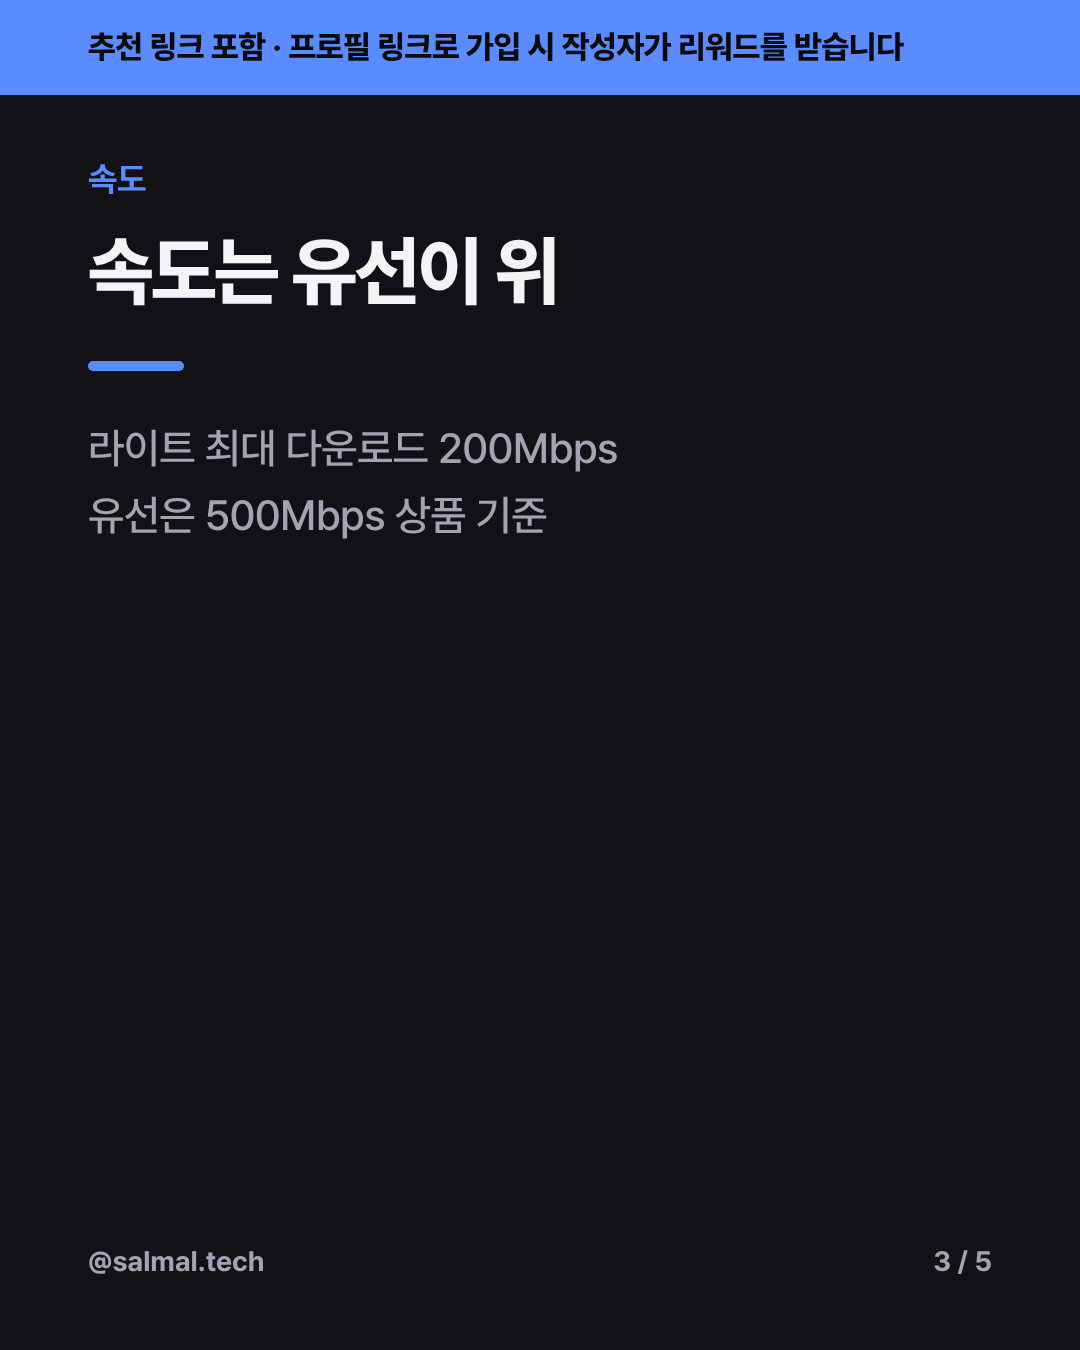
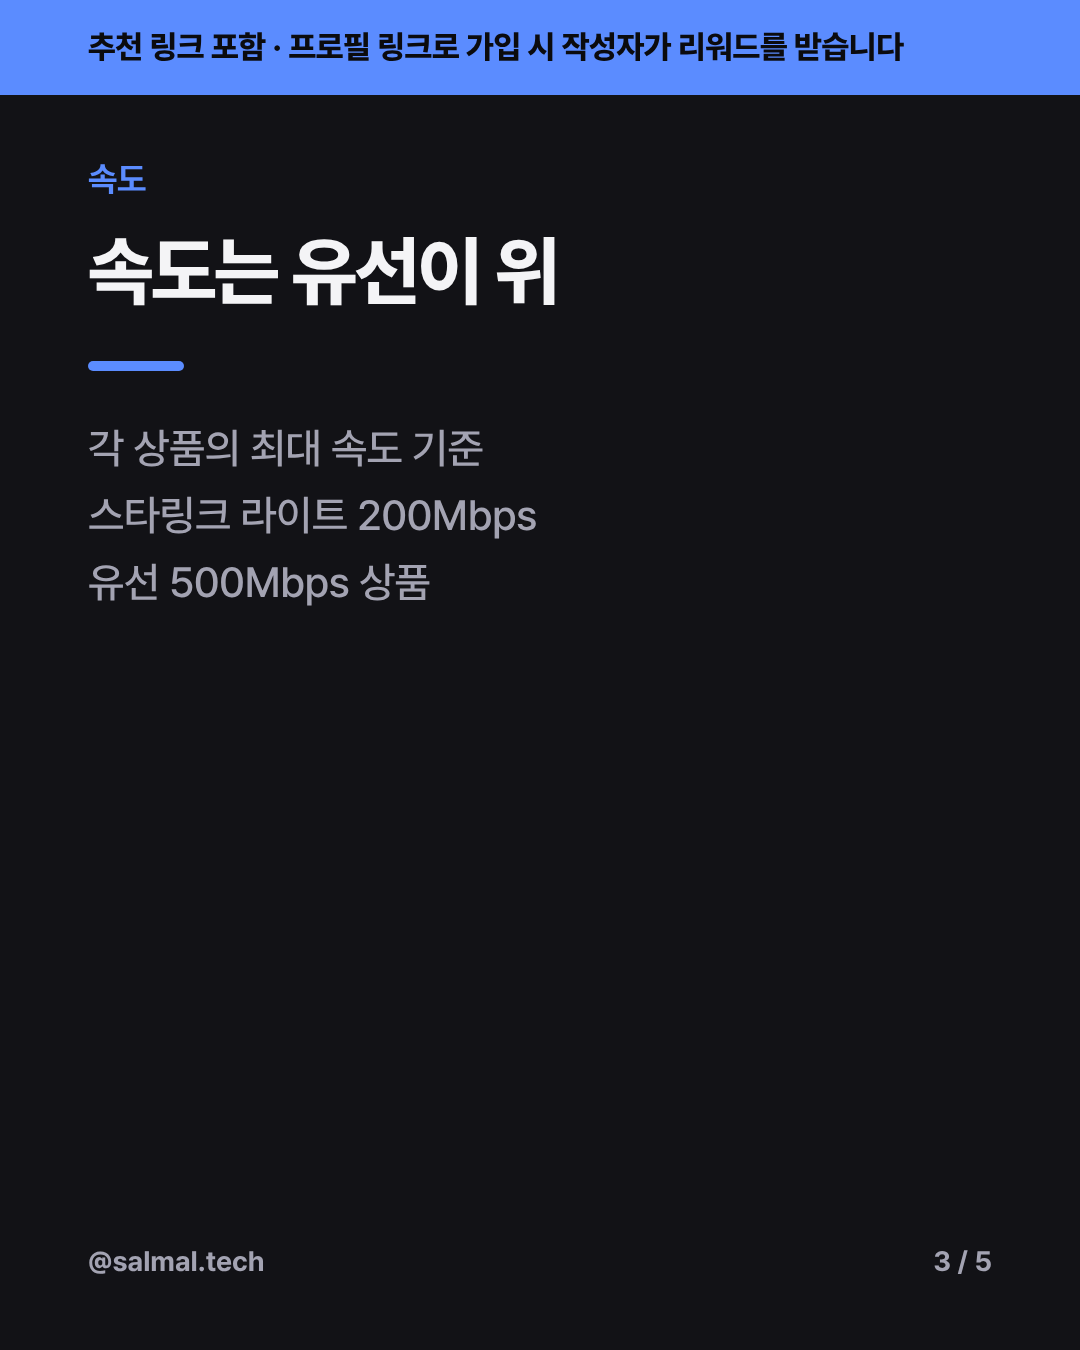
제작 2026-11-18: 03·04 검수 보류 사항 반영, 게시 기한(publish_by) 도입
03은 '값은 거의 같다'를 할인 기간 월 요금으로 좁히고 키트 비용과 약정·할인 차이를 넣었다.
결론을 '검토해 볼 만하다'로 낮추고 주소별 라이트 확인을 추가했다. 04는 출처가 약한
서울 대기자 문장을 빼고 '3분'과 #캠핑을 지웠다. 두 소재 모두 짧은 채널에 마감일을 넣었다.
시한성 소재에 publish_by를 두고, 그 날짜를 넘는 예약은 채널 매니저와 상태 검사가 막는다.

Claude-Session: https://claude.ai/code/session_015tx819vuc4pyFPfp6DvgFx

Changed region(s): [[0.0611, 0.3111, 0.5806, 0.4667]]

diff --git a/tools/check_state.js b/tools/check_state.js
@@ -95,6 +95,16 @@ if (queue) {
           }
         }
       }
+      if (item.publish_by && !/^\d{4}-\d{2}-\d{2}$/.test(item.publish_by)) {
+        fail(`${where}: publish_by 형식은 YYYY-MM-DD`);
+      }
+      if (item.publish_by && Array.isArray(item.posts)) {
+        for (const post of item.posts) {
+          if (post.scheduled_at && post.scheduled_at.slice(0, 10) > item.publish_by) {
+            fail(`${where}: ${post.channel} 예약(${post.scheduled_at})이 publish_by(${item.publish_by})를 넘김`);
+          }
+        }
+      }
       if (['scheduled', 'published', 'measured'].includes(item.status)) {
         if (!Array.isArray(item.posts) || item.posts.length === 0) {
           fail(`${where}: ${item.status} 상태인데 posts가 비어 있음`);

diff --git a/content/20261118-03/review.md b/content/20261118-03/review.md
@@ -1,0 +1,66 @@
+# 검수: 20261118-03 반값 스타링크, 집 인터넷 대신 써도 될까
+
+- 검수일: 2026-11-18
+- 대상 파일: brief.md, instagram.md, threads.md, x.md, cards.json, cards/01~05.png
+- 승인 방식: `auto`. passed는 사람 확인 없이 바로 예약되므로 기준을 엄격하게 적용했다.
+- 판정: **held**
+
+## 1. 광고 표시: 문제 없음
+
+- 인스타그램 캡션, 스레드, X의 첫 줄에 "프로필 링크는 스타링크 추천 링크, 가입 시 작성자 리워드"가 있다.
+- 카드에는 상단 `notice` 띠가 있다(02, 05 확인).
+
+## 2. 사실: 보류(필수 수정 3건)
+
+맞는 것:
+- 수치는 브리프 출처와 같다. 라이트 34,000원/68,000원/최대 200Mbps는 아시아타임즈와 make2t, 유선 33,000원은 아시아타임즈, 34,100원은 텔레네이션이다.
+- "3만 3천~3만 4천 원대"와 "33,000~34,100원"이라는 범위 표기도 맞다.
+- 공식가 약 6만 원 칼럼은 쓰지 않았다.
+
+**속도 비교는 공정한가: 대체로 공정하다.**
+- 라이트의 "최대 200Mbps"와 유선 "500Mbps 상품"은 둘 다 상품의 명목 최대 속도라 같은 성격의 숫자다.
+- 결론("속도는 유선이 위")도 스타링크에 유리하게 기울지 않았다.
+- 권고: 카드 3에 "둘 다 상품 기준 최대 속도"라고 적으면 더 정확하다.
+
+걸린 것:
+
+1. **"값은 거의 같아요"(카드 2 제목, 캡션, 스레드, X)는 성격이 다른 두 가격을 같은 값처럼 보이게 한다.**
+   - 유선 33,000원은 3년 약정으로 3년 내내 유지되는 가격이다. 스타링크 34,000원은 신규 가입 한정 할인가이고, 몇 달 유지되는지 확인되지 않았다. 정상가는 68,000원이다.
+   - 스타링크는 키트를 사야 한다. 할인가로도 스탠다드 275,000원, 미니 160,000원(make2t, 01 브리프)인데 비교에서 빠졌다.
+   - 그래서 "거의 같다"는 할인이 유지되는 동안의 월 요금에만 해당한다. 장기 비용으로는 사실이 아니다. 독자가 "반값이면 유선과 같은 값"이라고 이해하고 가입할 수 있다. 정확히는 스타링크에 유리하게 기운 표현이다.
+   - 고칠 방법: 제목을 "할인 기간 월 요금만 보면 비슷"처럼 범위를 한정한다. 카드 2(또는 4)와 캡션에 다음 두 가지를 넣는다.
+     - 스타링크는 키트(할인가 스탠다드 27만 5천 원, 미니 16만 원)를 따로 산다.
+     - 유선 가격은 3년 고정이고, 스타링크 할인은 기간이 확인되지 않았으며 끝나면 68,000원이다.
+   - 스레드와 X의 "값은 거의 같고/값은 비슷"도 "할인 기간 월 요금은 비슷"으로 한정한다.
+2. **할인 마감과 대상이 없다.** 네 채널 어디에도 "보도 기준 11월 28일까지, 신규 가입"이 없는데 "반값 스타링크"를 현재형으로 내세운다. 자동 게시라서 마감 뒤에 나가면 틀린 글이 된다.
+   - 고칠 방법: 카드 2 또는 4, 캡션, 스레드, X에 "할인은 보도 기준 11/28까지(신규 가입)"를 넣는다.
+   - 게시 조건: 11월 27일까지 게시되지 않으면 내보내지 않고 다시 검수한다. 채널 매니저는 예약 시각이 11/28 이후면 예약하지 않는다.
+3. **결론이 단정적이고 라이트 제공 조건이 빠졌다.**
+   - 카드 5 "유선이 안 들어오거나 느린 곳이 답", 캡션 "스타링크가 답이 됩니다"가 걸린다. 34,000원 계산은 주거용 라이트가 그 주소에 제공될 때만 맞다(04 브리프, make2t). 과장 없는 정보형이라는 톤과도 어긋난다.
+   - 고칠 방법: "유력한 선택지"처럼 낮춘다. "라이트가 우리 주소에 나오는지 먼저 확인"을 한 줄 넣는다. 카드 5의 "곳이 답." 문장은 어색하기도 하다.
+
+## 3. 저작권과 초상권: 문제 없음
+
+## 4. 조작: 문제 없음
+
+써 본 사람의 후기처럼 쓴 부분이나 사칭이 없다.
+
+## 5. 채널 규정: 문제 없음(참고 1건)
+
+- 인스타그램 해시태그 5개. 스레드와 X는 280자·500자 안쪽이다.
+- 카드 하단의 `@salmal.tech`는 인스타그램 핸들이다. 카드는 인스타그램에만 쓰므로 문제없다. 같은 카드를 X에 쓰게 되면 X 핸들과 맞지 않는다.
+- 스레드와 X 초안은 지금 연결되지 않은 채널이다. auto 모드에서 passed가 되면 연결된 뒤에 그대로 나갈 수 있으므로 위 수정이 두 초안에도 반영돼야 한다.
+
+## 6. AI 표시: 해당 없음
+
+## 7. 위험 주제: 2번 지적 외에는 문제 없음
+
+"확인되지 않은 할인 금액"에 해당하는 수치는 없다. 다만 할인 기간이 확인되지 않은 가격을 장기 가격처럼 비교한 것(2번의 1)은 고쳐야 한다.
+
+## 8. 톤: 보류
+
+"도시면 유선"이라고 아쉬운 점을 말한 것은 좋다. 다만 "값은 거의 같아요"와 "답"은 과장 없는 정리형이라는 톤과 어긋난다(2번의 1과 3).
+
+## 고친 뒤
+
+필수 수정 3건(가격 비교 범위 한정과 키트 비용, 마감·신규 가입 표기와 게시 기한, 결론 표현과 라이트 제공 조건)이 반영되면 다시 검수한다.

diff --git a/content/20261118-04/review.md b/content/20261118-04/review.md
@@ -1,0 +1,59 @@
+# 검수: 20261118-04 결제 전 우리 집 주소로 확인할 3가지
+
+- 검수일: 2026-11-18
+- 대상 파일: brief.md, instagram.md, threads.md, x.md, cards.json, cards/01~05.png
+- 승인 방식: `auto`. passed는 사람 확인 없이 바로 예약되므로 기준을 엄격하게 적용했다.
+- 판정: **held**
+
+## 1. 광고 표시: 문제 없음
+
+- 인스타그램 캡션, 스레드, X의 첫 줄에 "프로필 링크는 스타링크 추천 링크, 가입 시 작성자 리워드"가 있다.
+- 카드에는 상단 `notice` 띠가 있다(02 확인).
+
+## 2. 사실: 보류(필수 수정 1건, 게시 조건 1건)
+
+맞는 것:
+- 주소를 넣으면 가능 여부가 나온다는 것과 라이트가 주소에 따라 안 나올 수 있다는 것은 make2t가 출처다.
+- "안 뜨면 34,000원 계산이 맞지 않는다"는 이 사실에서 바로 따라 나오는 말이다.
+- 카드 5에 "보도 기준 11월 28일까지"가 있다.
+- 보증금처럼 확인되지 않은 내용은 넣지 않았다.
+
+걸린 것:
+
+1. **서울 대기자 등록(카드 2): 출처가 약하다.**
+   - 과거 보도라는 틀("출시 때 … 보도가 있었어요")은 적절하다.
+   - 하지만 브리프의 근거가 "출시 보도 요약(2025.12), 가입 안내 블로그"뿐이다. 매체 이름, 날짜, 주소가 없어 CLAUDE.md 절대 규칙 5(출처를 브리프에 남긴다)를 충족하지 못한다. 기사 원문이 아니라 검색 요약만 본 것이다. 카드 5의 출처 줄에도 이 출처가 없다.
+   - 약 1년 전 상황이라 서울 독자는 지금도 가입할 수 없다고 오해할 수 있다. 체크리스트의 목적(주소를 넣어 직접 확인)에 꼭 필요한 문장도 아니다.
+   - 참고: `state/queue.json`의 source에는 make2t 설치 가능 지역 정리 글(주소 포함)이 "서울 대기자 등록"의 출처로 적혀 있다. 그런데 브리프에는 이 주소가 없고, 그 글도 이 환경에서 열어 보지 못했다. 출시 당시 상황을 정리한 2차 자료다.
+   - 고칠 방법: (a) 문장을 빼거나, (b) 매체·날짜·주소를 브리프에 적고, 카드에 "2025년 12월 출시 당시 보도. 지금 상황은 주소로 확인"처럼 시점과 현재 확인 방법을 붙이고 출처 줄에 그 매체를 넣는다. 자동 게시이므로 (a)를 권한다.
+2. **게시 조건(마감).** 캡션, 스레드, X는 "스타링크 반값 할인"을 현재형으로 쓴다. 마감은 카드 5에만 있다.
+   - 고칠 방법: 캡션, 스레드, X에도 "보도 기준 11/28까지"를 넣는다.
+   - 게시 기한: 11월 27일까지 게시되지 않으면 내보내지 않고 다시 검수한다.
+
+권고:
+- "3분"은 근거 없는 시간 표현이다. 수사로 읽히므로 차단하지는 않지만 "결제 전에 먼저"처럼 바꾸면 톤에 더 맞다.
+- 해시태그 #캠핑은 주거용 요금제와 집 주소를 다룬 이 글의 내용과 맞지 않는다. 캠핑에 맞는 정보로 오해할 수 있으니 빼는 것이 좋다.
+
+## 3. 저작권과 초상권: 문제 없음
+
+## 4. 조작: 문제 없음
+
+## 5. 채널 규정: 문제 없음
+
+- 인스타그램 해시태그 5개. 스레드와 X는 길이 제한 안쪽이다.
+- 카드 하단 `@salmal.tech`는 인스타그램 전용이다.
+- 스레드와 X 초안은 연결되면 그대로 나갈 수 있으므로 수정이 같이 반영돼야 한다.
+
+## 6. AI 표시: 해당 없음
+
+## 7. 위험 주제: 문제 없음
+
+확인되지 않은 할인이나 리워드 금액이 없다.
+
+## 8. 톤: 문제 없음
+
+실수를 막는 체크리스트이고 존댓말이다.
+
+## 고친 뒤
+
+서울 대기자 문장 처리와 짧은 채널의 마감 표기가 반영되면 다시 검수한다.

diff --git a/content/20261118-04/brief.md b/content/20261118-04/brief.md
@@ -1,4 +1,4 @@
-# 브리프: 스타링크 사기 전 3분, 우리 집 주소로 확인할 것
+# 브리프: 스타링크 결제 전, 우리 집 주소로 확인할 것
 
 ## 한 줄 요약
 
@@ -11,7 +11,7 @@
 
 ## 훅 후보
 
-1. 스타링크 결제 전 3분, 주소부터 넣어 보세요.
+1. 스타링크 결제 전, 주소부터 넣어 보세요.
 2. 반값인 줄 알았는데 내 주소엔 라이트가 없다면?
 
 ## 채널별 형식
@@ -30,12 +30,15 @@
 | 사실 | 출처 |
 |---|---|
 | 스타링크 사이트에서 설치 주소를 넣으면 서비스 가능 여부가 나온다 | make2t 설치 가능 지역 정리(2026.11), 가입 안내 블로그 |
-| 출시 당시 서울은 용량 한도로 대기자 등록 방식이라는 보도 | 출시 보도 요약(2025.12), 가입 안내 블로그 |
 | 주거용 라이트는 주소에 따라 선택지에 나오지 않을 수 있다. 안 나오면 월 34,000원 계산이 그 주소에 맞지 않는다 | make2t 34,000원 적용 확인 글(2026.11) |
 | 라이트 정상가 68,000원, 할인가 34,000원, 할인 보도 기준 11월 28일까지 | 아시아타임즈(2026.11.04) |
 
-확인하지 못한 것: 대기자 등록의 현재 조건(보증금 등), 구체적인 미제공 지역 목록. 본문에 쓰지 않는다.
+확인하지 못한 것: 서울 등 지역별 대기자 등록 여부와 조건(출처가 검색 요약뿐이라 제외), 구체적인 미제공 지역 목록. 본문에 쓰지 않는다.
 
 ## 목표 지표
 
 저장 수(보조), 프로필 링크 클릭.
+
+## 게시 기한
+
+할인 마감(보도 기준 11/28) 직전 정보라 11월 27일까지 나가지 못하면 게시하지 않는다(`publish_by`).

diff --git a/content/20261118-03/instagram.md b/content/20261118-03/instagram.md
@@ -8,14 +8,16 @@
 
 반값 스타링크, 집 인터넷 대신 써도 될까요?
 
-할인가 라이트 월 3만 4천 원.
-통신 3사 500Mbps 유선은 3년 약정 기준 월 3만 3천~3만 4천 원대.
-값은 거의 같은데, 라이트의 최대 다운로드는 200Mbps예요.
+할인 기간의 월 요금만 보면 비슷해요.
+· 스타링크 라이트 할인가 월 3만 4천 원(신규 가입, 보도 기준 11/28까지)
+· 통신 3사 500Mbps 유선 월 3만 3천~3만 4천 원대(3년 약정)
+
+다만 스타링크는 키트를 따로 사야 하고(할인가 미니 16만, 스탠다드 27만 5천 원),
+할인이 끝나면 라이트 정상가는 월 6만 8천 원이에요. 할인이 몇 달 가는지는 결제 화면에서 확인하세요.
+속도는 각 상품 최대치 기준으로 라이트 200Mbps, 유선 500Mbps입니다.
 
 그래서 유선이 잘 들어오는 도시라면 유선이 낫고,
-유선이 안 들어오거나 느린 곳이라면 스타링크가 답이 됩니다.
-
-할인이 끝나면 라이트 정상가는 월 6만 8천 원이에요.
-월 요금 할인 기간은 결제 화면에서 꼭 확인하세요.
+유선이 안 들어오거나 느린 곳이라면 스타링크를 검토해 볼 만해요.
+먼저 우리 집 주소에 라이트가 뜨는지부터 확인하세요.
 
 #스타링크 #인터넷요금 #위성인터넷 #전원주택 #귀촌

diff --git a/content/20261118-03/threads.md b/content/20261118-03/threads.md
@@ -2,11 +2,11 @@
 
 [추천 링크 포함] 프로필 링크는 스타링크 추천 링크예요(가입 시 작성자 리워드).
 
-반값 스타링크 vs 집 인터넷
-· 스타링크 라이트 할인가 월 3만4천(최대 200Mbps)
+반값 스타링크 vs 집 인터넷(할인 기간 월 요금 기준)
+· 스타링크 라이트 할인가 월 3만4천(신규, 보도 기준 11/28까지 / 최대 200Mbps)
 · 통신 3사 500Mbps 유선 월 3만3천~3만4천 원대(3년 약정)
 
-값은 거의 같고 속도는 유선이 위.
-도시면 유선, 유선이 약한 곳이면 스타링크.
+스타링크는 키트 별도(할인가 미니 16만), 할인 끝나면 라이트 월 6만8천.
+도시면 유선, 유선이 약한 곳이면 스타링크 검토. 주소에 라이트가 뜨는지 먼저 확인.
 
 출처: 아시아타임즈(11.04), 텔레네이션 요금 비교

diff --git a/content/20261118-04/instagram.md b/content/20261118-04/instagram.md
@@ -6,8 +6,8 @@
 
 [추천 링크 포함] 프로필 링크는 스타링크 추천 링크예요. 가입하시면 제가 리워드를 받습니다.
 
-스타링크 반값 할인, 결제 전에 3분만 쓰세요.
-우리 집 주소로 세 가지를 먼저 확인하면 됩니다.
+스타링크 반값 할인(신규 가입, 보도 기준 11/28까지), 결제 전에
+우리 집 주소로 세 가지를 먼저 확인하세요.
 
 1. 서비스 가능 지역인지
 2. 주거용 라이트가 선택지에 뜨는지
@@ -17,4 +17,4 @@
 
 저장해 두고 결제 직전에 다시 보세요.
 
-#스타링크 #스타링크할인 #위성인터넷 #전원주택 #캠핑
+#스타링크 #스타링크할인 #위성인터넷 #전원주택

diff --git a/.claude/agents/channel-manager.md b/.claude/agents/channel-manager.md
@@ -19,6 +19,7 @@ tools: Read, Write, Edit, Glob, Bash
 ## 지킬 것
 
 - `approved`가 아닌 것은 어떤 경우에도 예약하지 않는다.
+- 소재에 `publish_by`가 있으면 그 날짜를 넘겨 게시되도록 예약하지 않는다. 기한이 지난 미게시 채널은 `pending_channels`에서 빼고 보고한다.
 - 커넥터가 없거나 호출이 실패하면 멈추고 보고한다. 다른 경로로 게시하지 않는다.
 - 예약 직전에 `content/<id>/review.md`의 판정이 `passed`인지 다시 확인한다.
 - 게시할 글은 `npm run finalize -- <id>`로 만든 `content/<id>/final/`의 최종본을 쓴다. 초안을 직접 올리지 않는다.

diff --git a/content/20261118-03/x.md b/content/20261118-03/x.md
@@ -2,9 +2,9 @@
 
 [추천 링크 포함, 가입 시 작성자 리워드]
 
-반값 스타링크 vs 집 인터넷
-라이트 할인가 월 3만4천(최대 200Mbps)
-통신 3사 500Mbps 유선 월 3만3천~3만4천 원대(3년 약정)
+반값 스타링크 vs 집 인터넷(할인 기간 월 요금)
+라이트 할인가 3만4천(신규, 보도 기준 11/28까지 / 최대 200Mbps)
+통신 3사 500Mbps 유선 3만3천~3만4천(3년 약정)
 
-값은 비슷, 속도는 유선이 위.
-도시면 유선, 유선이 약한 곳이면 스타링크.
+스타링크는 키트 별도, 할인 끝나면 월 6만8천.
+도시면 유선, 유선이 약한 곳이면 스타링크 검토.

diff --git a/content/20261118-03/brief.md b/content/20261118-03/brief.md
@@ -11,7 +11,7 @@
 
 ## 훅 후보
 
-1. 반값 스타링크, 집 인터넷보다 쌀까? 거의 같습니다. 그런데 속도가 다릅니다.
+1. 반값 스타링크, 집 인터넷보다 쌀까? 할인 기간 월 요금은 비슷, 그런데 키트와 속도가 다릅니다.
 2. 도시라면 굳이? 숫자로 보면 답이 나옵니다.
 
 ## 채널별 형식
@@ -41,3 +41,7 @@
 ## 목표 지표
 
 저장과 공유(보조), 프로필 링크 클릭.
+
+## 게시 기한
+
+할인 마감(보도 기준 11/28) 정보가 핵심이라 11월 27일까지 나가지 못하면 게시하지 않는다(`publish_by`).

diff --git a/content/20261118-04/threads.md b/content/20261118-04/threads.md
@@ -2,7 +2,7 @@
 
 [추천 링크 포함] 프로필 링크는 스타링크 추천 링크예요(가입 시 작성자 리워드).
 
-스타링크 반값 할인, 결제 전 3분 체크
+스타링크 반값 할인(신규, 보도 기준 11/28까지) 결제 전 체크
 1. 우리 집 주소가 서비스 가능 지역인지
 2. 주거용 라이트가 선택지에 뜨는지(안 뜨면 월 3만4천 원 계산 안 맞음)
 3. 결제 화면의 할인가와 할인 기간

diff --git a/state/queue.schema.md b/state/queue.schema.md
@@ -31,3 +31,4 @@
 - `brief`, `review`, `posts`, `metrics`는 해당 단계에 도달했을 때 채운다.
 - 수집하지 못한 수치는 `null`로 둔다.
 - `pending_channels`는 승인됐지만 아직 예약하지 못한 채널이다(커넥터에 계정이 아직 연결되지 않은 경우 등).
+- `publish_by`는 시한성 정보(할인 마감 등)를 담은 소재의 게시 기한이다. 이 날짜가 지나면 예약하지 않는다.
